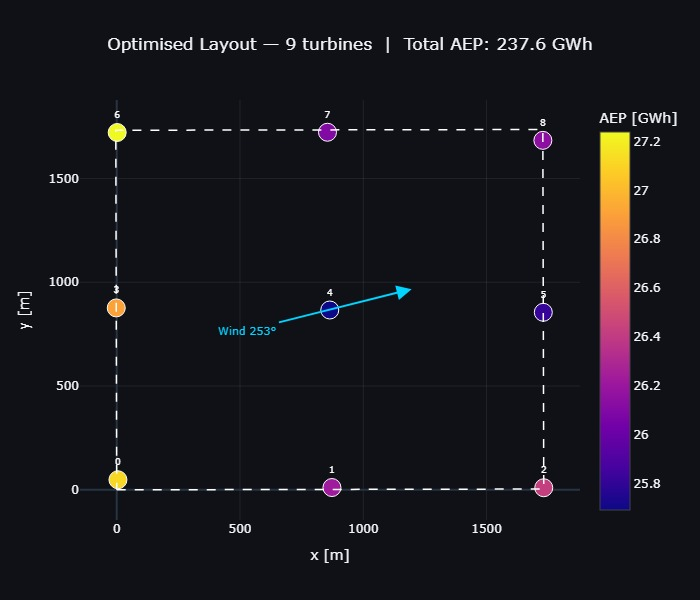
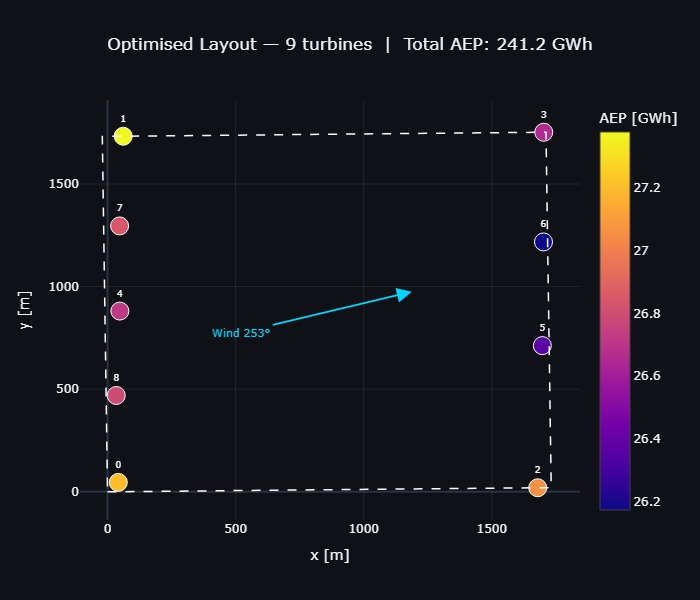
farm_new

diff --git a/ass1/modeling/farm.py b/ass1/modeling/farm.py
@@ -64,35 +64,78 @@ class WindFarm:
 
         return (rot_matrix @ corners.T).T
 
-    def _make_start_pos(self) -> tuple[np.ndarray, np.ndarray]:
+    def _make_start_pos(self, wind_model: WindResourceModel) -> tuple[np.ndarray, np.ndarray]:
         """
-        Generate evenly spread starting positions inside the boundary.
-
-        The exact positions don't matter much — will get moved.
-        We just need turbines spread out inside the boundary so the
-        optimizer has a good starting point.
-
-        Uses a regular grid with equal spacing in both directions,
-        rotated to match the boundary orientation.
+        Generate starting positions using a Smart Start inspired approach.
+        Places turbines one by one at the position that maximises AEP.
+        Automatically relaxes minimum spacing if not enough candidates available.
         """
-        n = self.configuration.value
-        n_row = int(np.sqrt(n))
+        site = wind_model.pywake_site
+        wfm = Bastankhah_PorteAgel_2014(site, self.turbine, k=0.04)
+        n_wt = self.configuration.value
+        D = self.turbine.diameter()
         size = self.BOUNDARY_SIZE_M
 
-        # Equal spacing in both directions — fills the boundary evenly
-        # Small margin (5%) so starting positions don't sit on the boundary edge
-        margin = size * 0.05
-        spacing = (size - 2 * margin) / (n_row - 1) if n_row > 1 else 0
+        # Denser candidate grid — more options for tight configurations
+        n_cand = 30  # 30×30 = 900 candidates
+        x_cand = np.linspace(size * 0.05, size * 0.95, n_cand)
+        y_cand = np.linspace(size * 0.05, size * 0.95, n_cand)
+        xx, yy = np.meshgrid(x_cand, y_cand)
+        x_cand = xx.flatten()
+        y_cand = yy.flatten()
 
-        xs, ys = [], []
-        for row in range(n_row):
-            for col in range(n_row):
-                xs.append(margin + col * spacing)
-                ys.append(margin + row * spacing)
+        placed_x = []
+        placed_y = []
 
-        xs, ys = np.array(xs), np.array(ys)
+        for i in range(n_wt):
 
-        return xs, ys
+            # Start with 2D minimum spacing, relax if no valid candidates found
+            for min_spacing in [2 * D, 1.5 * D, 1 * D, 0.5 * D]:
+                valid_candidates = []
+
+                for cx, cy in zip(x_cand, y_cand):
+                    too_close = any(
+                        np.sqrt((cx - px) ** 2 + (cy - py) ** 2) < min_spacing
+                        for px, py in zip(placed_x, placed_y)
+                    )
+                    if not too_close:
+                        valid_candidates.append((cx, cy))
+
+                if valid_candidates:
+                    break  # found valid candidates at this spacing — use them
+
+            if not valid_candidates:
+                # Absolute fallback — just pick the candidate furthest from all placed turbines
+                best_x, best_y = max(
+                    zip(x_cand, y_cand),
+                    key=lambda p: min(
+                        np.sqrt((p[0] - px) ** 2 + (p[1] - py) ** 2)
+                        for px, py in zip(placed_x, placed_y)
+                    ) if placed_x else 0
+                )
+            else:
+                # Find best AEP among valid candidates
+                best_aep = -np.inf
+                best_x = valid_candidates[0][0]
+                best_y = valid_candidates[0][1]
+
+                for cx, cy in valid_candidates:
+                    xs = np.array(placed_x + [cx])
+                    ys = np.array(placed_y + [cy])
+                    aep = float(wfm(xs, ys).aep().sum())
+
+                    if aep > best_aep:
+                        best_aep = aep
+                        best_x = cx
+                        best_y = cy
+
+            placed_x.append(best_x)
+            placed_y.append(best_y)
+            print(f"  Smart Start: placed turbine {i + 1}/{n_wt} "
+                  f"at ({best_x:.0f}, {best_y:.0f}) "
+                  f"[min spacing used: {min_spacing / D:.1f}D]")
+
+        return np.array(placed_x), np.array(placed_y)
 
     def optimize_layout(self, wind_model: WindResourceModel) -> tuple[np.ndarray, np.ndarray]:
         """
@@ -114,7 +157,7 @@ class WindFarm:
         n_wt = self.configuration.value
 
         # Starting positions — evenly spread inside the boundary
-        x_init, y_init = self._make_start_pos()
+        x_init, y_init = self._make_start_pos(wind_model)
         angle_init = 0.0
 
         # Flatten into single array: [x0..xn, y0..yn, angle]
